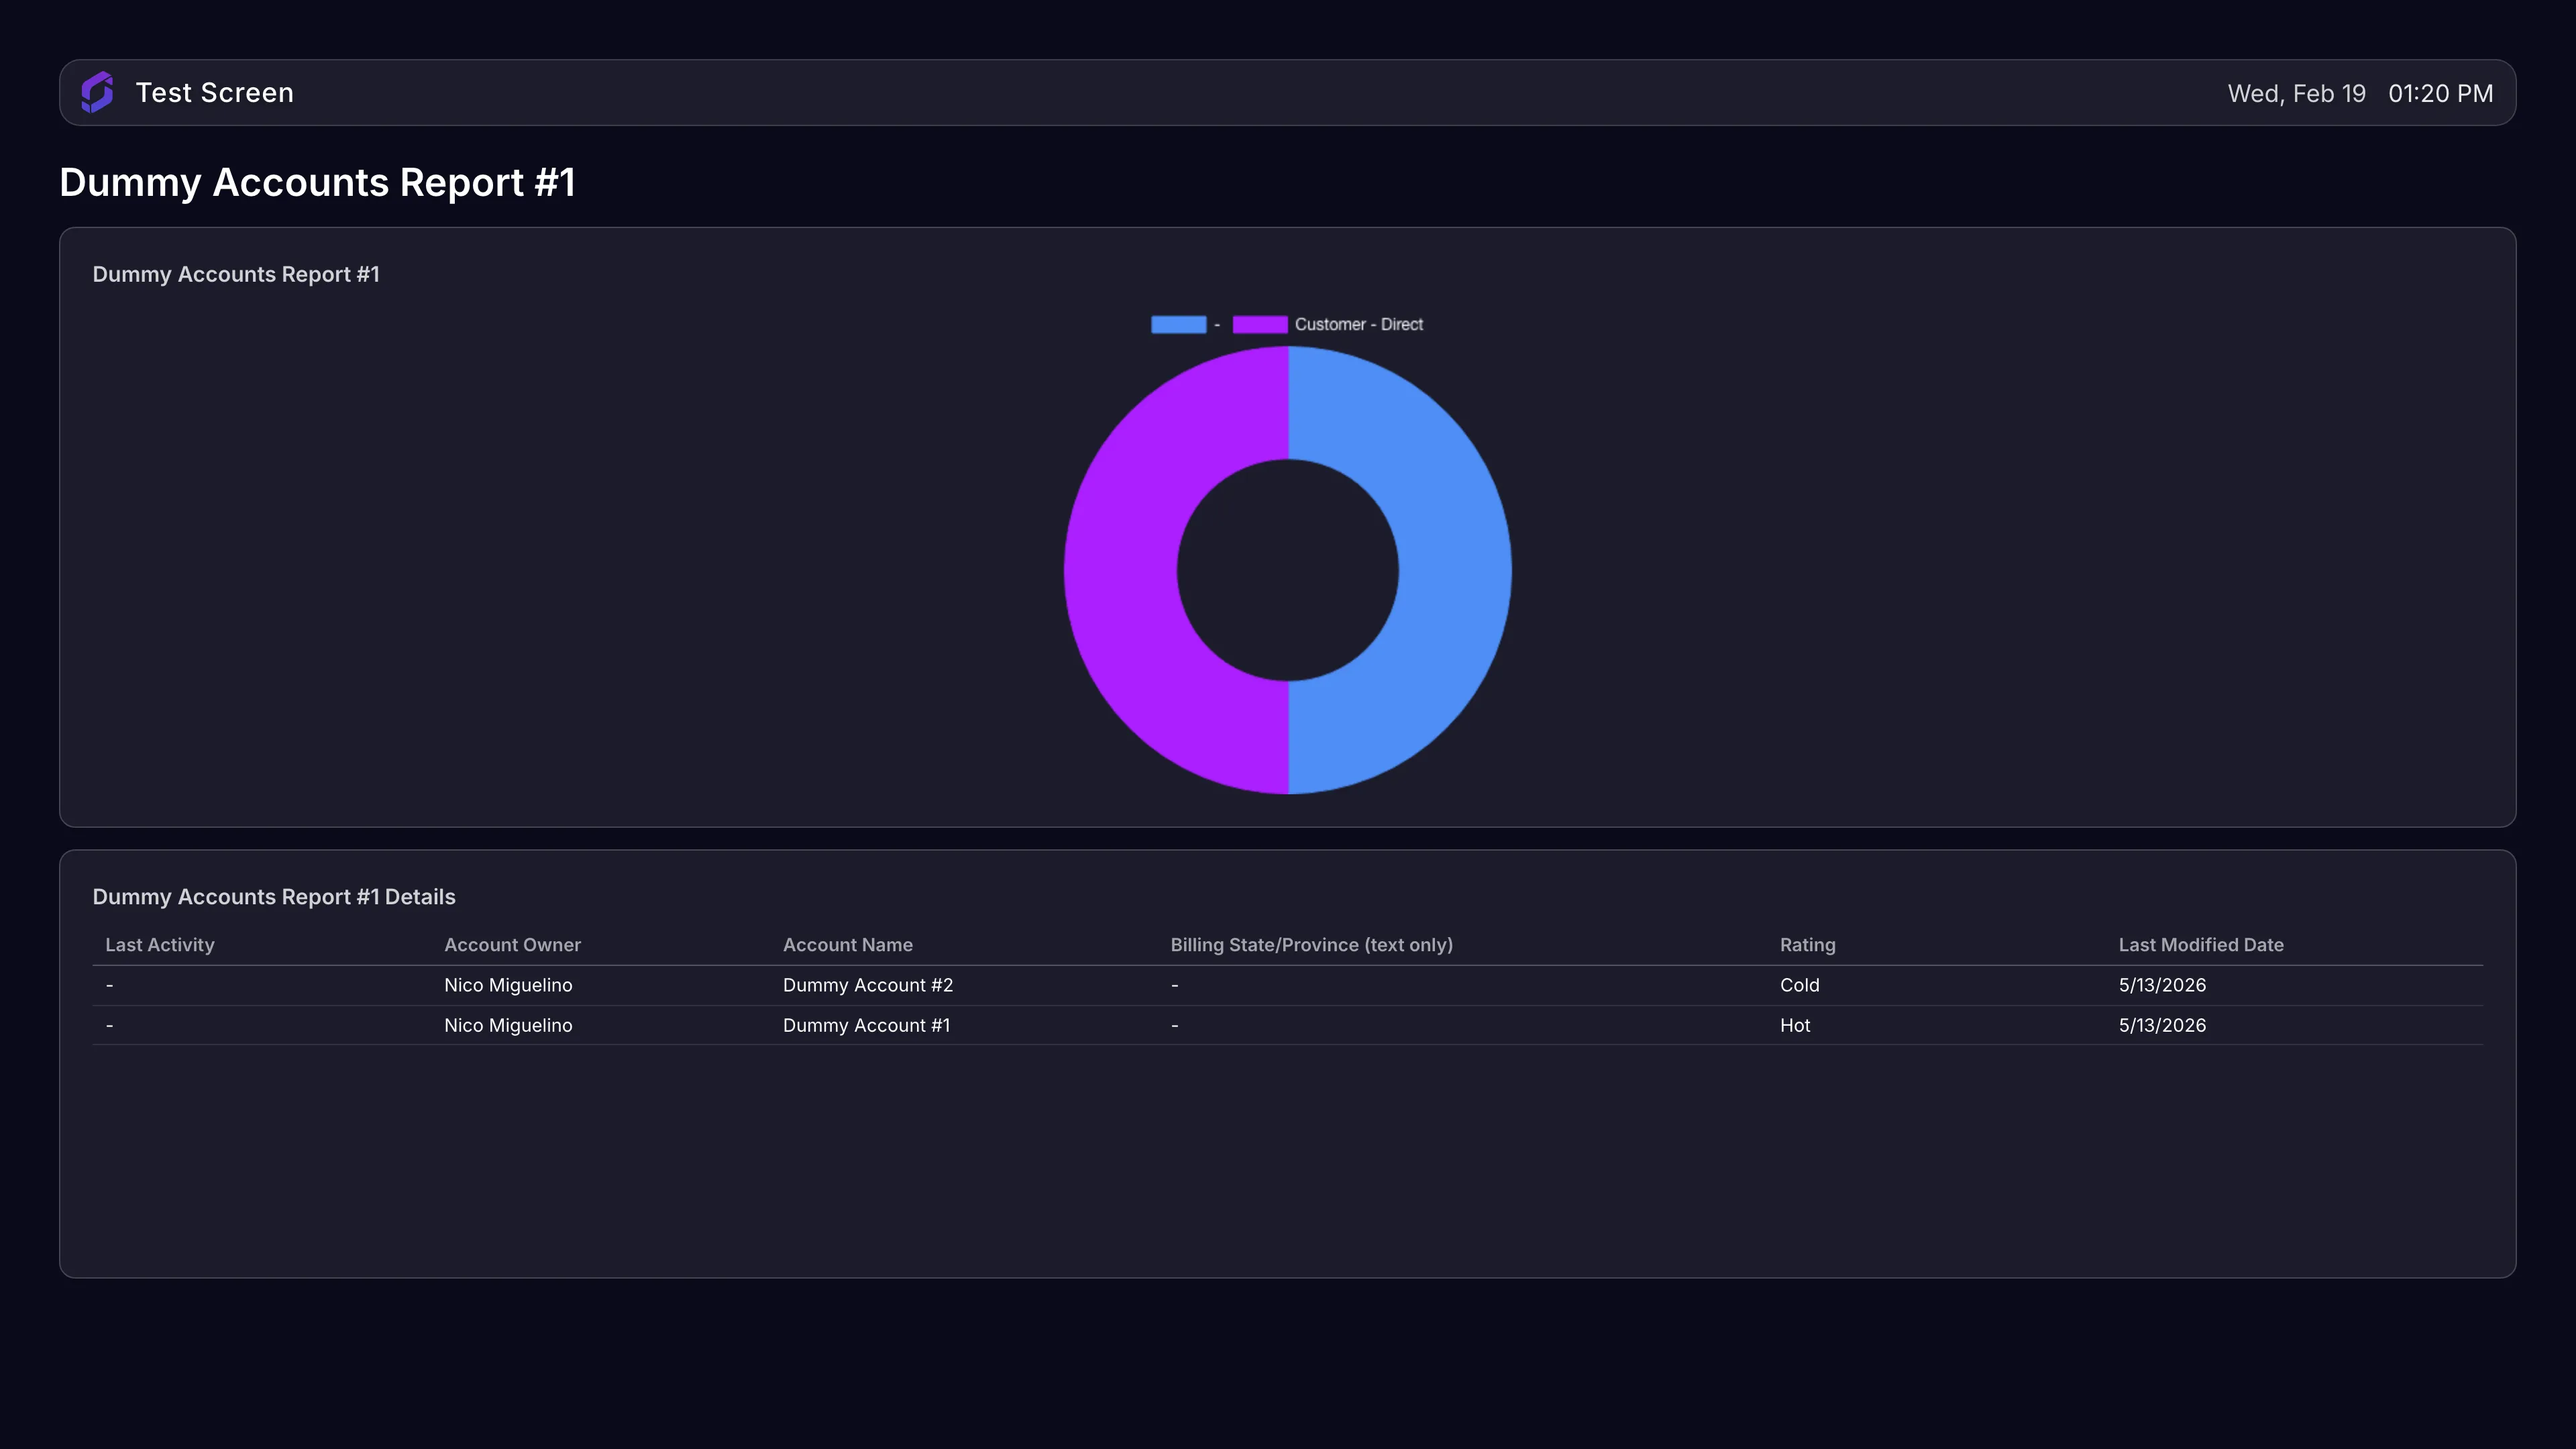
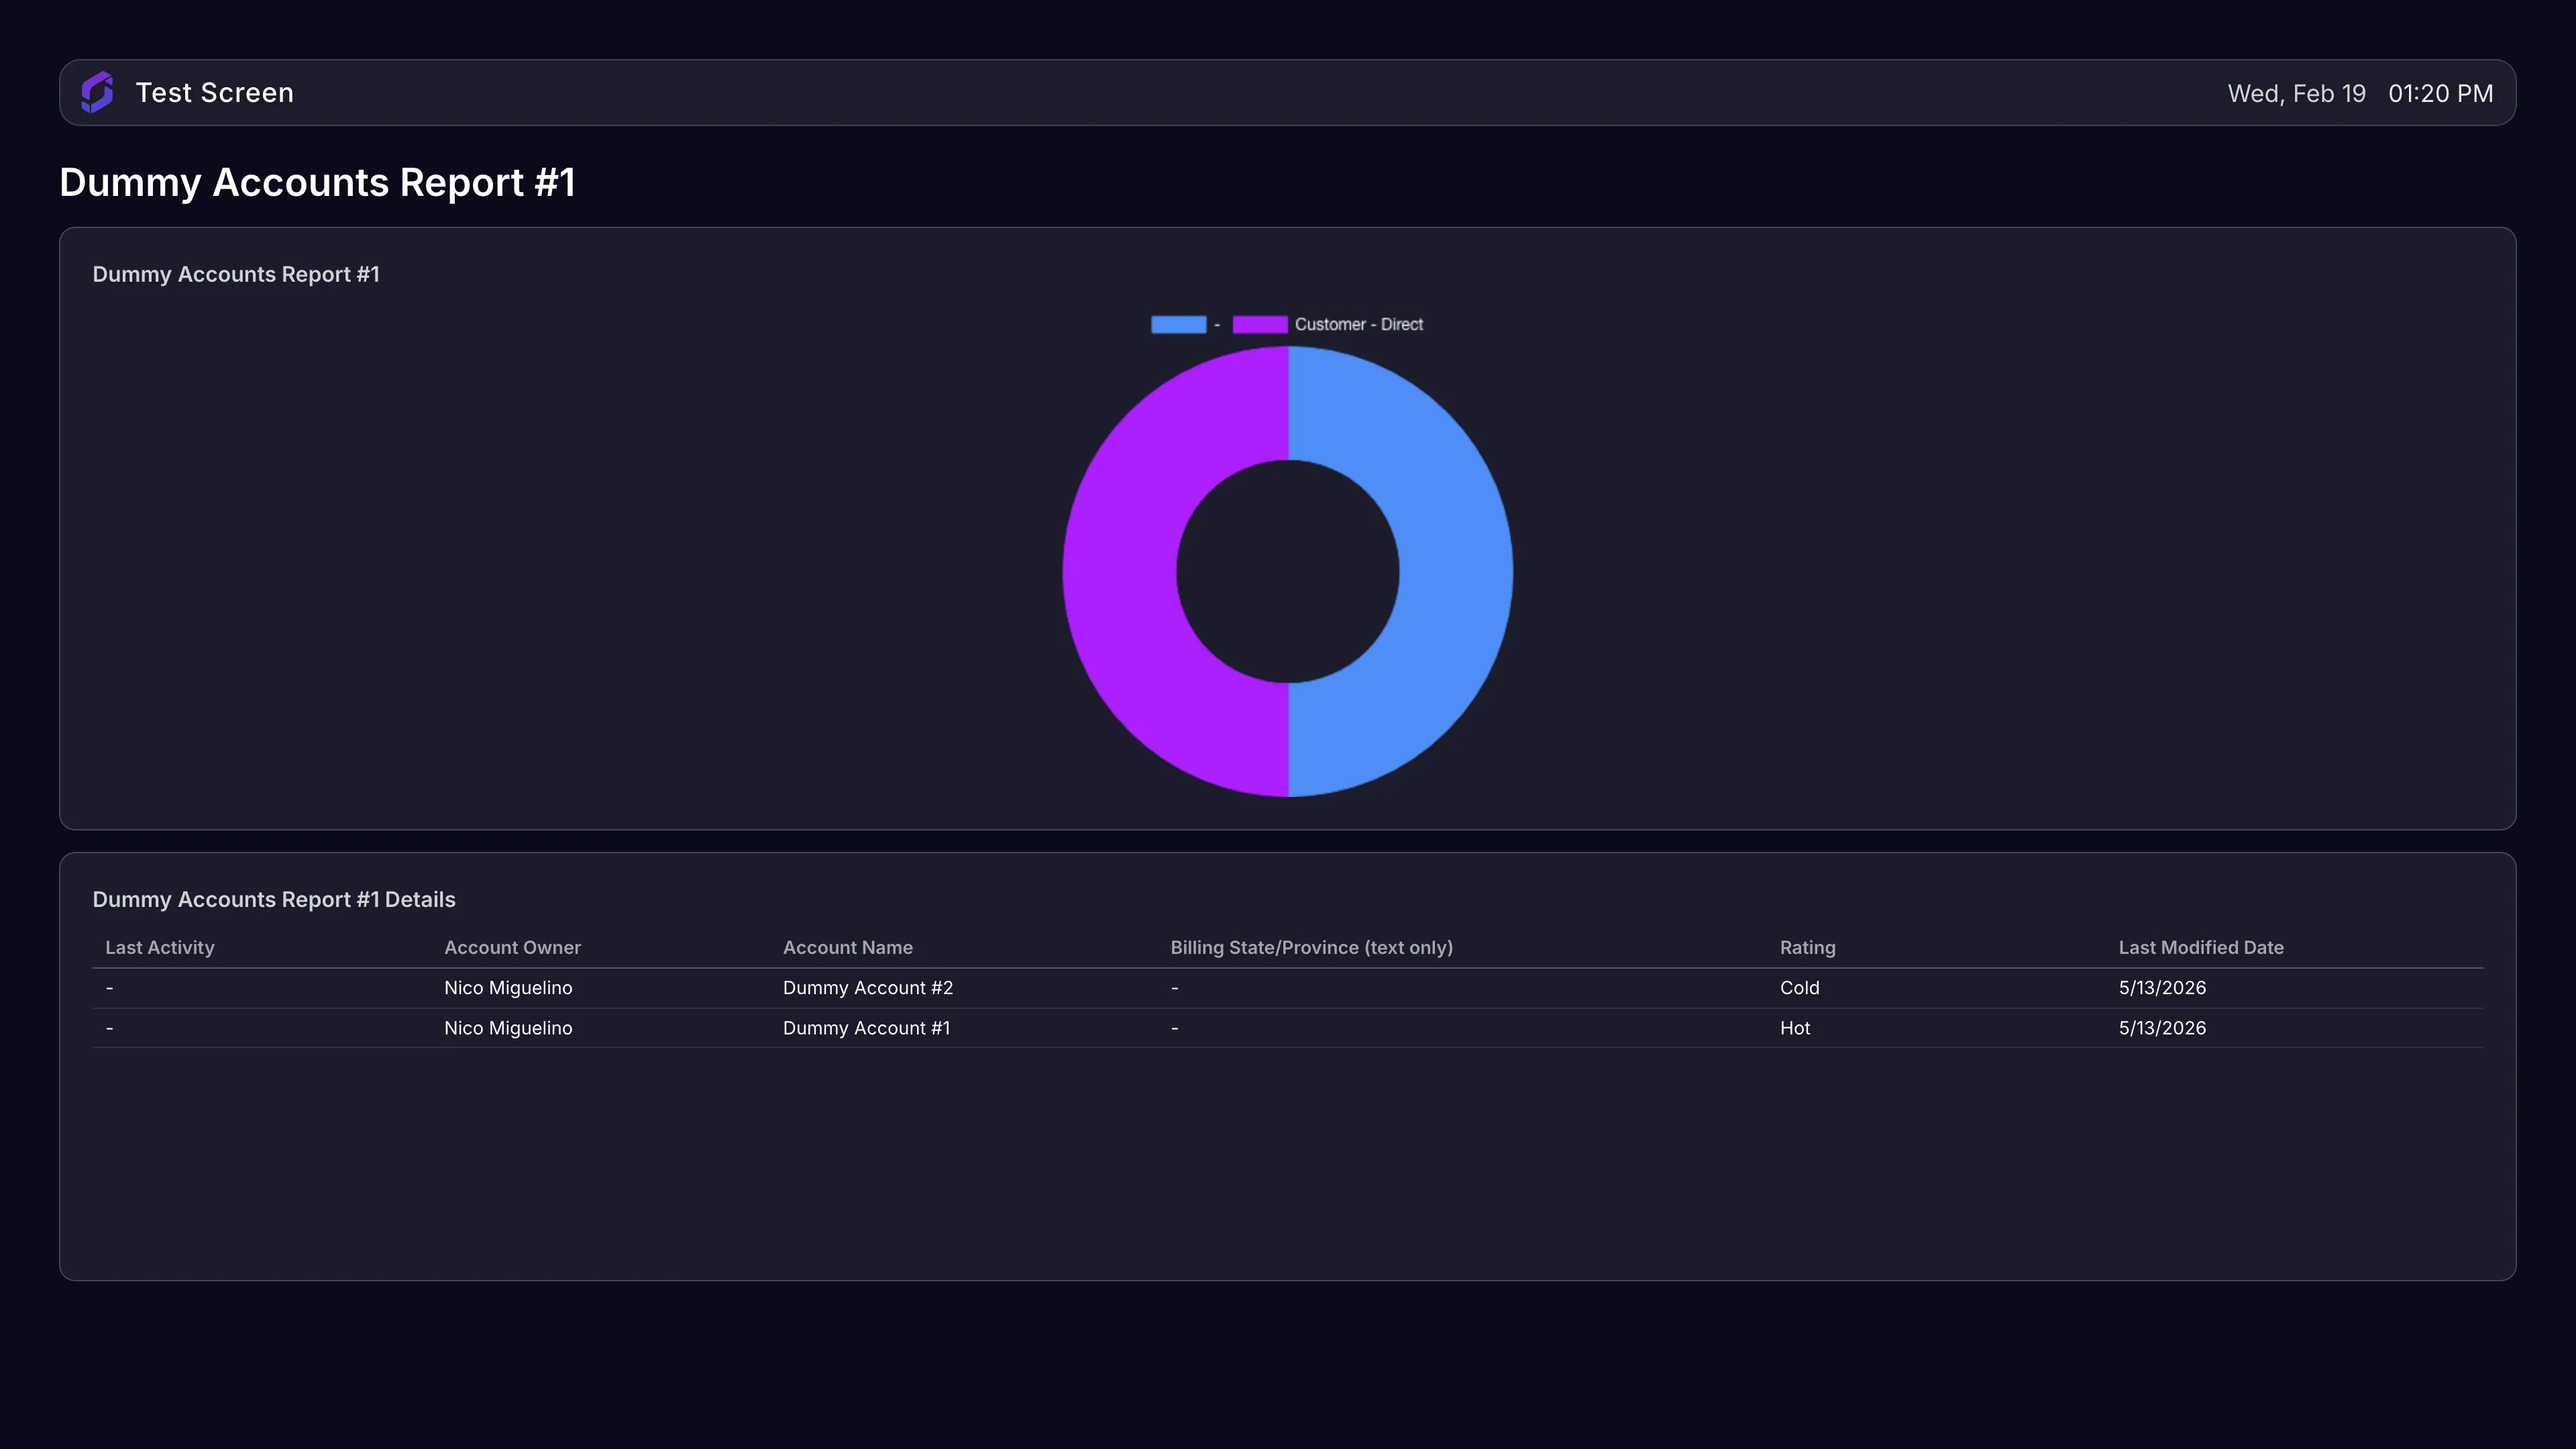
fix: support horizontal report bars
- normalize Salesforce horizontal bar chart types
- refresh report screenshot

diff --git a/src/render/chart.ts b/src/render/chart.ts
@@ -22,16 +22,21 @@ const CHART_COLORS = [
 export const CHART_TYPES = new Set([
   'bar',
   'column',
+  'horizontal bar',
   'line',
   'pie',
   'donut',
   'doughnut',
 ])
 
+function normalizeChartType(sfType: string): string {
+  return sfType.trim().toLowerCase()
+}
+
 function mapChartType(sfType: string): 'bar' | 'line' | 'pie' | 'doughnut' {
-  const t = sfType.toLowerCase()
+  const t = normalizeChartType(sfType)
   if (t === 'donut') return 'doughnut'
-  if (t === 'bar' || t === 'column') return 'bar'
+  if (t === 'bar' || t === 'column' || t === 'horizontal bar') return 'bar'
   if (t === 'line') return 'line'
   if (t === 'pie') return 'pie'
   return 'bar'
@@ -74,7 +79,9 @@ export function renderChart(
   }
 
   const chartType = mapChartType(sfType)
-  const isHorizontalBar = sfType.toLowerCase() === 'bar'
+  const normalizedType = normalizeChartType(sfType)
+  const isHorizontalBar =
+    normalizedType === 'bar' || normalizedType === 'horizontal bar'
   const canvas = document.createElement('canvas')
   canvas.id = `chart-${componentId}`
   container.appendChild(canvas)
